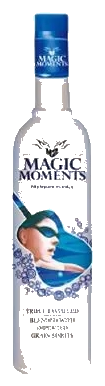
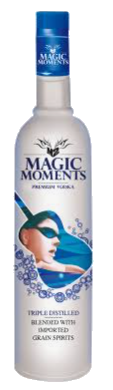
feat(assets): replace Magic Moments bottle image with high-definition transparent cutout

diff --git a/index.html b/index.html
@@ -5243,7 +5243,7 @@
             <span class="badge-4rge badge-secondary card-top-tag">${item.category}</span>
             ${item.bestseller ? '<span class="badge-4rge badge-warning card-bestseller-star">★ Top Seller</span>' : ''}
             <div class="bottle-photo-wrapper">
-              <img src="${item.img}?v=11" alt="${item.name}" class="bottle-photo" loading="lazy" onerror="this.onerror=null; this.src='images/BAC-SUP-750.png';" />
+              <img src="${item.img}?v=12" alt="${item.name}" class="bottle-photo" loading="lazy" onerror="this.onerror=null; this.src='images/BAC-SUP-750.png';" />
             </div>
           </div>
 
@@ -5679,7 +5679,7 @@
         <div class="quickview-img-box">
           <span class="badge-4rge badge-secondary card-top-tag">${p.category}</span>
           ${p.bestseller ? '<span class="badge-4rge badge-warning card-bestseller-star">★ Top Seller</span>' : ''}
-          <img src="${p.img}?v=11" alt="${p.name}" class="quickview-img" onerror="this.onerror=null; this.src='images/BAC-SUP-750.png';" />
+          <img src="${p.img}?v=12" alt="${p.name}" class="quickview-img" onerror="this.onerror=null; this.src='images/BAC-SUP-750.png';" />
         </div>
 
         <div class="quickview-details-col">

diff --git a/cart.html b/cart.html
@@ -1728,7 +1728,7 @@
             <!-- Corresponding Bottle Cutout Stage -->
             <div class="cart-bottle-stage">
               <img 
-                src="${bottleImg}" 
+                src="${bottleImg}${bottleImg.includes('?') ? '&' : '?'}v=12" 
                 alt="${item.name}" 
                 class="cart-bottle-img" 
                 onerror="this.src='img/tasmac-icon-128.png'" 
